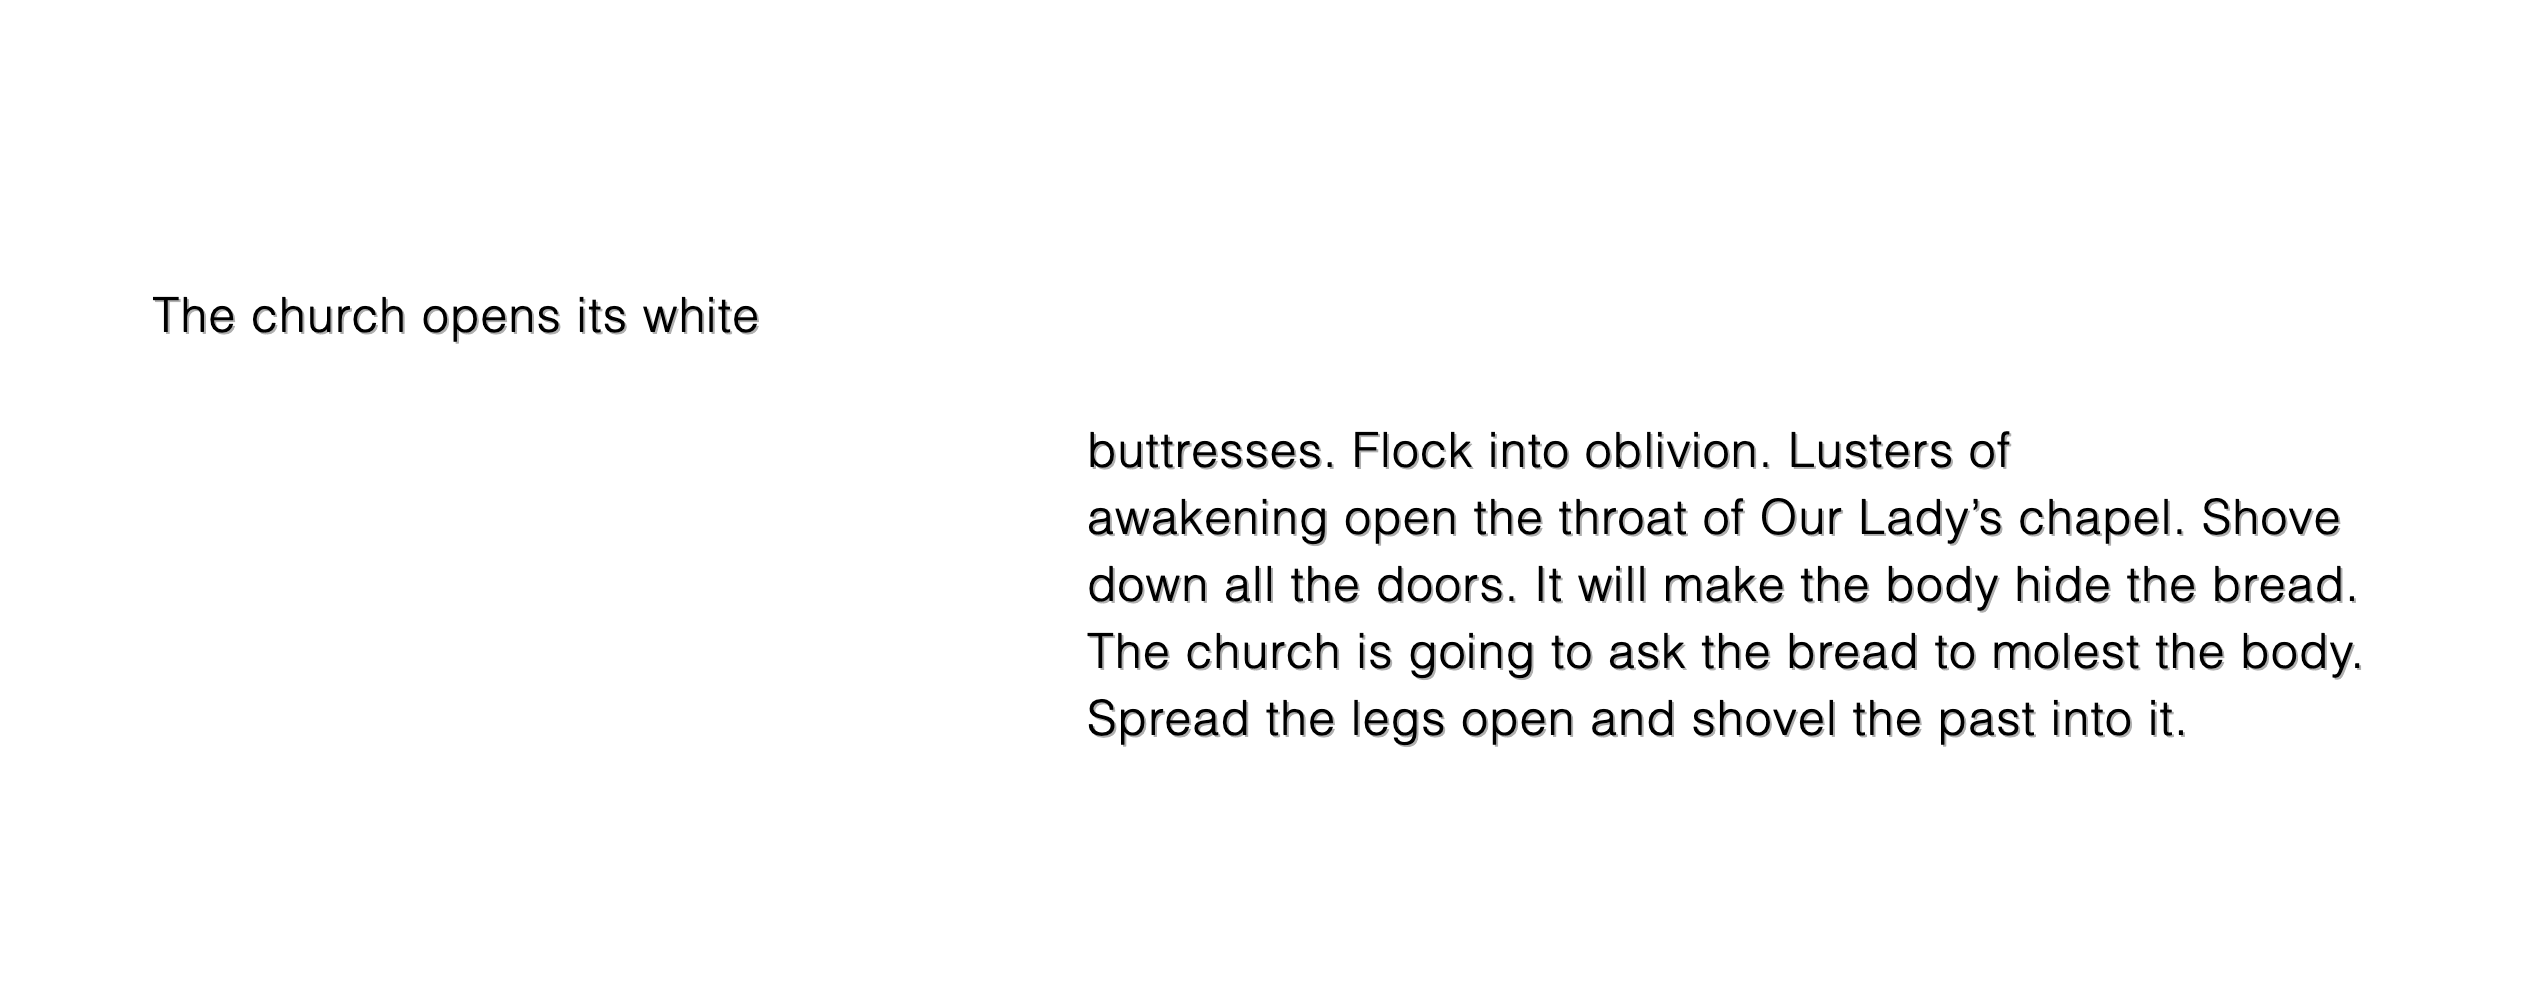
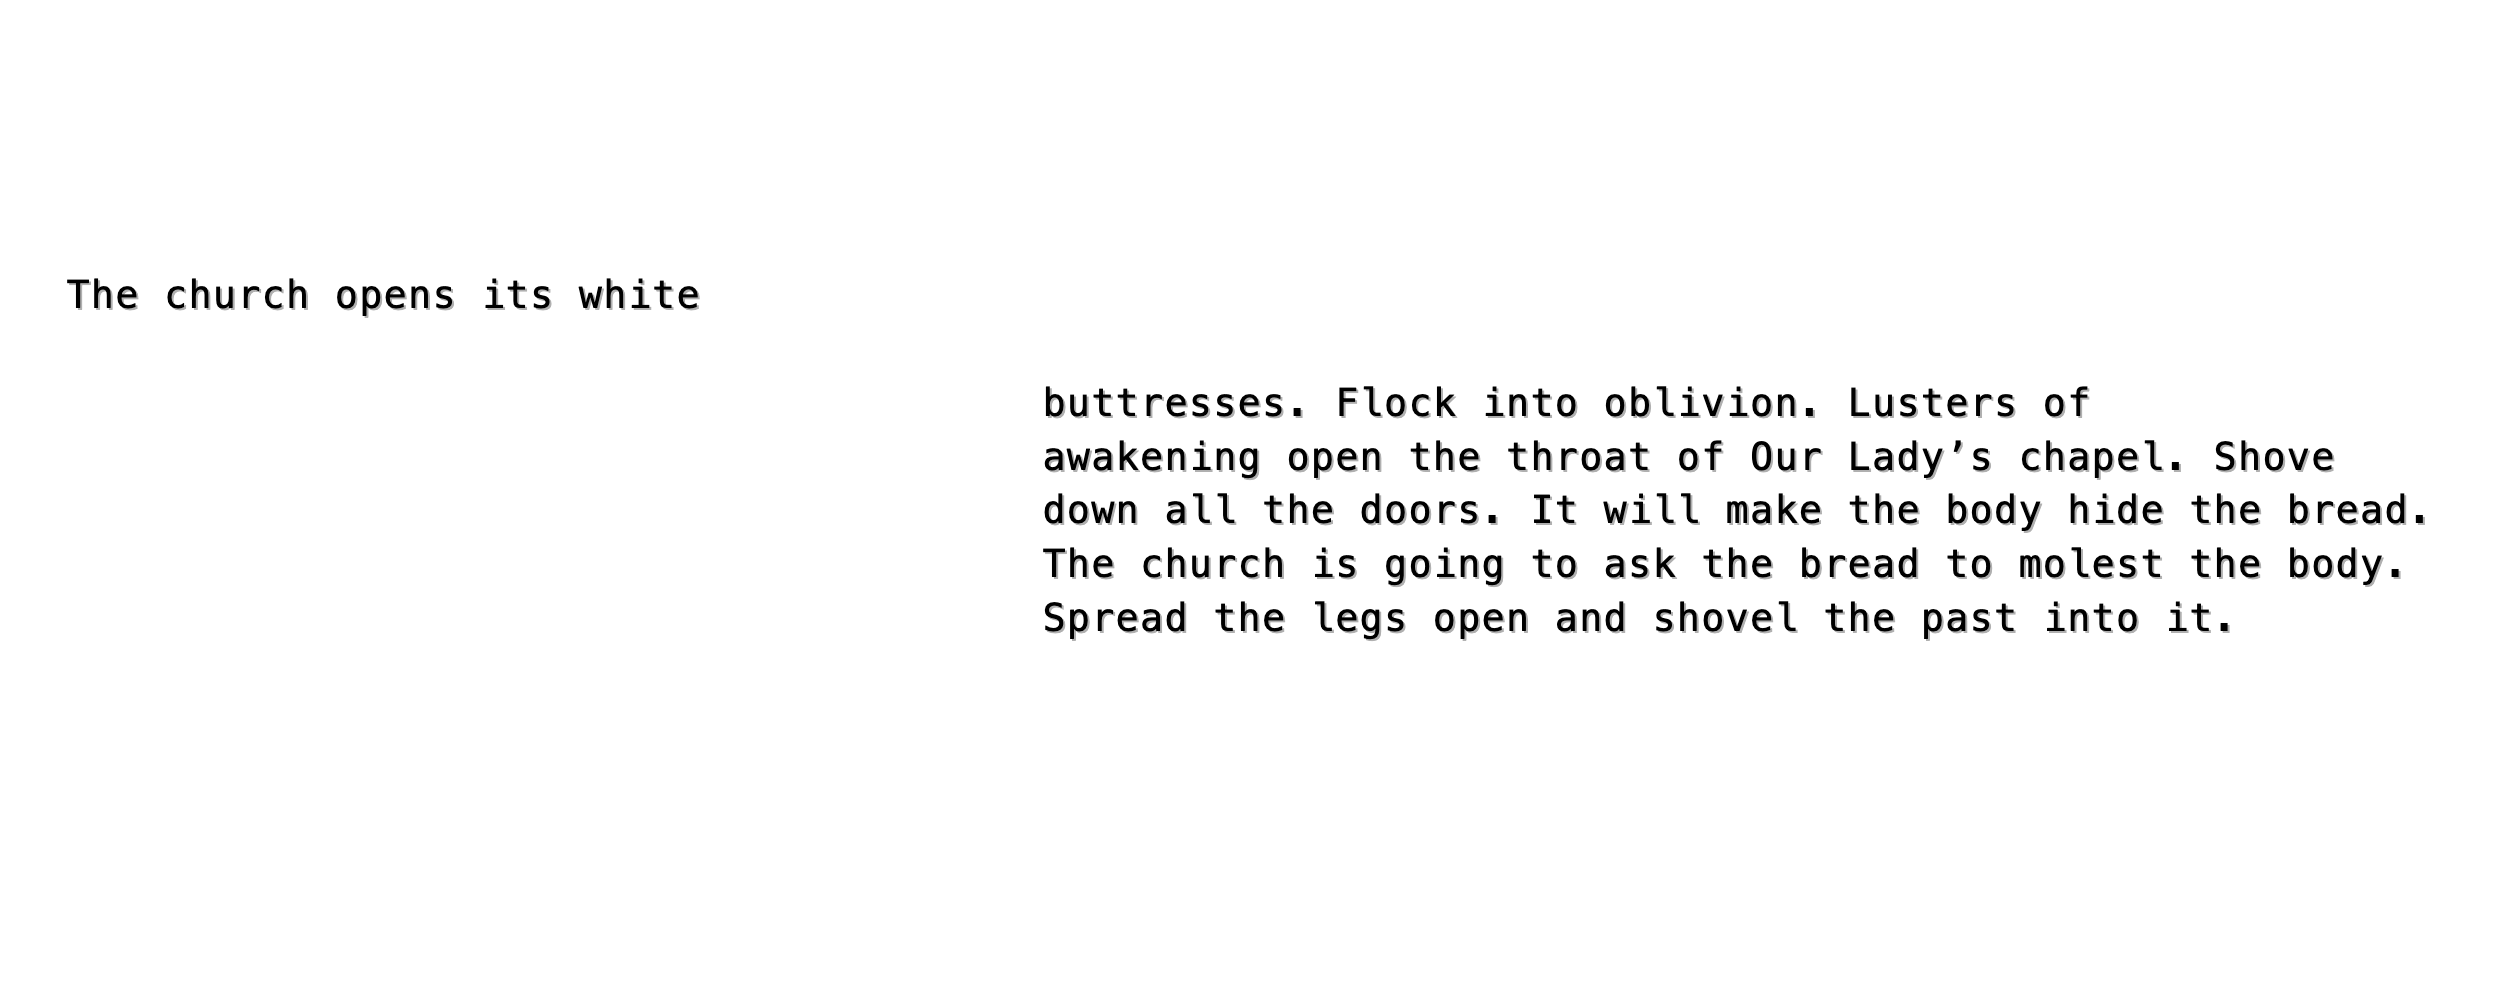
further refines issue1's two_eyes_in_one_eye gallery

Changed region(s): [[0.4056, 0.372, 0.9672, 0.744], [0.0312, 0.279, 0.312, 0.341]]

diff --git a/pages/GalleryTextStagingArea/twoEyesRawText.js b/pages/GalleryTextStagingArea/twoEyesRawText.js
@@ -7,6 +7,8 @@ import styles from '../../styles/TwoEyesInOne.module.css'
 
 
 export default function TwoEyesRawText() {
+  let ital = "I am the only one who moves the seasons around";
+  let ital1 = ital.italics();
   return (
       <div>
           <Head>
@@ -26,65 +28,227 @@ export default function TwoEyesRawText() {
         <br/><br/>
         <CenterGrayTitle><span className={styles.blackShadow}><h3>version<br/>one: two eyes in one<br/>eye</h3></span></CenterGrayTitle>
         <br/><br/><br/><br/><br/><br/>
-       <GalleryLineation content= {`
+       <GalleryLineation> <pre>{`
 The bird is walking around the courtyard      
 
-                                                                  looking for a religion with a pair of oculi.
-                                                                  Comparing itself to the cathedral. Landscape greets their
-                                                                  bodies. Bird and cathedral share contorted & arched
-                                                                  postures. The bird bent by fata morgana gazes at
-                                                                  the light /// the light is eating into one another. Eating
-                                                                  into each other’s time. The father of the moment eats
-                                                                  eats eats into [    ]. It blinks—in no [      ]—
-                                                                  metamorphoses into a cathedral. The bird opens wide its
-                                                                  buttresses, spreading its congregation of feathers. 
-        `}/>
+                                                      looking for a religion with a pair of oculi.
+                                        Comparing itself to the cathedral. Landscape greets their
+                                        bodies. Bird and cathedral share contorted & arched
+                                        postures. The bird bent by fata morgana gazes at
+                                        the light /// the light is eating into one another. Eating
+                                        into each other’s time. The father of the moment eats
+                                        eats eats into [    ]. It blinks—in no [      ]—
+                                        metamorphoses into a cathedral. The bird opens wide its
+                                        buttresses, spreading its congregation of feathers. 
+        `}</pre></GalleryLineation>
         <br/>
         <br/>
         <br/>
         <br/>
         <br/>
 
-        <GalleryLineation content= {`
-  The church opens its white      
+        <GalleryLineation> <pre>{`
+The church opens its white      
 
-                                                                  buttresses. Flock into oblivion. Lusters of
-                                                                  awakening open the throat of Our Lady’s chapel. Shove
-                                                                  down all the doors. It will make the body hide the bread.
-                                                                  The church is going to ask the bread to molest the body. 
-                                                                  Spread the legs open and shovel the past into it.
-         `}/>
+                                        buttresses. Flock into oblivion. Lusters of
+                                        awakening open the throat of Our Lady’s chapel. Shove
+                                        down all the doors. It will make the body hide the bread.
+                                        The church is going to ask the bread to molest the body. 
+                                        Spread the legs open and shovel the past into it.
+         `}</pre></GalleryLineation>
          <br/>
          <br/>
          <br/>
          <br/>
          <br/>
-         <GalleryLineation content= {`
-         The heart of the church is cold    
+         <GalleryLineation> <pre>{`
+The heart of the church is cold    
 
-                                                                               & blistery. Ready to be lightwood—splintered
-                                                                  by time /// Darkness is gentle and enhances the stomach
-                                                                  lining, the ambulatory nave, with wisdom and
-                                                                  confidence.
-          `}/>
+                                                  & blistery. Ready to be lightwood—splintered
+                                        by time /// Darkness is gentle and enhances the stomach
+                                        lining, the ambulatory nave, with wisdom and
+                                        confidence.
+          `}</pre></GalleryLineation>
           <br/>
           <br/>
           <br/>
           <br/>
           <br/>
-          <GalleryLineation content= {`
-          The congregation walks into the stomach    
+          <GalleryLineation> <pre>{`
+The congregation walks into the stomach    
 
-                                                                               lining of the bird. Sits down. The professor, a 
-                                                                  physicist, opens the bible made of birdseeds. Looks down
-                                                                  at her watch. The priest will cut the lives of others with
-                                                                  his cryptic voice.
-           `}/>
+                                                     lining of the bird. Sits down. The professor, a
+                                        physicist, opens the bible made of birdseeds. Looks down
+                                        at her watch. The priest will cut the lives of others with
+                                        his cryptic voice.
+           `}</pre></GalleryLineation>
            <br/>
            <br/>
            <br/>
            <br/>
            <br/>
+           <GalleryLineation> <pre>{`
+“The light does enjoy    
+
+                                                    a moment of breakfast, of eating a full meal of
+                                        siding and tree branches and roofs and cars and fighting
+                                        off the table before handing over the kitchen knife,”
+                                        begins the priest before the slanted heads of his
+                                        congregation. “Slants of light slaughter the throat of
+                                        trees. Trees fall and gaze down at the floor of the earth
+                                        and at their own shadow. Trees talk to their shadow. 
+                                        How long have I been here? Where is your shadow, 
+                                        shadow? Where is your breakfast? I could be down there
+                                        with you, floating on the earth’s surface like a buffalo
+                                        hide, dehydrated by the sun. But I’d rather not...”
+            `}</pre></GalleryLineation>
+            <br/>
+            <br/>
+            <br/>
+            <br/>
+            <br/>
+            <GalleryLineation> <pre>{`
+  "Landscape cannot take in all the bright  
+
+                                                    white bleeding. Beware of the light that dances
+                                        out of the mist, emitting radiation. Beware of human
+                                        beings with their bright ornamentations.” The hearts of
+                                        the congregation are lifted up higher and higher ///
+                                        brighter and brighter by the voice of the priest. Here
+                                        violence is only possible. The hearts sink back down to
+                                        the body and disperse in its field like snipers. Light that
+                                        violates becomes unequal to anything. Or anybody. And
+                                        rain:
+             `}</pre></GalleryLineation>
+             <br/>
+             <br/>
+             <br/>
+             <br/>
+             <br/>
+             <GalleryLineation> <pre>{`
+  The tears of the professor are falling
+
+                                                    apart as she raises her voice to the choir. There
+                                        is no way to return the tears to the proper owners before
+                                        they arrive to the professor. After the afternoon
+                                        shoulders the light, the lights move outside of each other, 
+                                        becoming less and less afraid of the bathroom and the
+                                        stained glass windows near the aisle. After the light locks
+                                        the earth in from its circular commotion, winter deceives
+                                  itself by thinking in sotto voce, ITAL~I am the only one who moves
+                                        the seasons around~ITAL, and says out loud, “You are eating my
+                                        heartbeat, you are eating, eating, eating me, Spring. Let
+                                        me move through the season like a barren queen.”
+              `}</pre></GalleryLineation>
+              <br/>
+              <br/>
+              <br/>
+              <br/>
+              <br/>
+              <GalleryLineation> <pre>{`
+After the winter gives the keys of daylight  
+
+                                        hours over to Spring, Spring opens the screen
+                                        door. Ziplocks winter away in cereal bowls. In the
+                                        afternoon, Spring and Winter remove each other’s 
+                            company: ~ital You and the trees. You will meet them again.~ital
+               `}</pre></GalleryLineation>
+               <br/>
+               <br/>
+               <br/>
+               <br/>
+               <br/>
+               <GalleryLineation> <pre>{`
+The priest is breathing finally and eating
+
+                                                time is never the place to do it. Not on the table.
+                                         Never on the table of God. Landscape knows that night
+                                         will murder the day each time.
+                `}</pre></GalleryLineation>
+                <br/>
+                <br/>
+                <br/>
+                <br/>
+                <br/>
+                <GalleryLineation> <pre>{`
+ The professor walks out of the church
+
+                                        tossing the bible to the bird. The professor
+                                        wears a long black skirt, ready to educate the young on
+                                        Newton’s third law. She ambles toward the flowerbeds
+                                        saturated with blue gems, bindweeds, scarlet pimpernels,
+                                        & Bermuda buttercups.  The flowers square their soft 
+                                        shoulder blades of affection, father their congregation of
+                                        avifaunal memory,  and bend their flowerheads in 
+                                        prayer.  The professor’s black skirt, its folded pleats
+                                        swaying back & forth back /// forth like lawnmower
+                                        blades. Preparing to inadvertently break the flowers’
+                                        backs. In preparation for the worst, the flowers begin to
+                                        empty their inflorescences into the shadow cast by the
+                                        sun.
+                 `}</pre></GalleryLineation>
+                 <br/>
+                 <br/>
+                 <br/>
+                 <br/>
+                 <br/>
+                 <GalleryLineation> <pre>{`
+United in prayer, they pray:
+
+                                        “Professor, do not swing our way.” The flowers
+                                        wish to stay on earth a little longer. A day in the life of  
+                                        a flower is one third of a life for many.  The Bermuda
+                                        buttercups hang on tightly to their open blouses, the
+                                        scarlet pimpernels pull down their floating hearts,
+                                        grappling for another portion of immortality. Fighting
+                                        for another layer of brevity & trying to expand the
+                                        biological contact with the world. It’s hard to keep
+                                        holding up the spine. To maintain the posture of tenacity
+                                        & fragility. 
+                  `}</pre></GalleryLineation>
+                  <br/>
+                  <br/>
+                  <br/>
+                  <br/>
+                  <br/>
+                  <GalleryLineation> <pre>{`
+The blades of the pleats
+
+                                                       swing. The flowers lose their spines.
+                  `}</pre></GalleryLineation>
+                   <br/>
+                   <br/>
+                   <br/>
+                   <br/>
+                   <br/>
+                   <GalleryLineation> <pre>{`
+The church does not
+
+                                        collapse when members of their congregation
+                                        fold their spines. The cathedral dilapidates on the
+                                        shadow created by the trees, lies still like a cathedral bird
+                                        until their bones are dispersed into dust & become light.
+                                        Dusty light crawls its illumination to the front doorstep of
+                                        the church /// As a deceased Lucifer, transported by the
+                                        stained glass windows, light sits by the transept, lifts its
+                                        translucent throat, and allows a flock of prayers to float
+                                        out of its mouth.
+                    `}</pre></GalleryLineation>
+                    <GalleryLineation> <pre>{`
+Two lovers sit in a Houston
+
+                                                Church in the middle of the afternoon. Their
+                                        orgasms sprawl out onto the nave.
+                    `}</pre></GalleryLineation>
+                    <GalleryLineation> <pre>{`
+    The bird has two eyes.                The Church has one.                Whoseesbetter?
+                    `}</pre></GalleryLineation>
+                    <br/>
+                    <br/>
+                    <br/>
+                    <br/>
+                    <br/>
+
           </body>
       </div>
   )

diff --git a/GalleryData/TwoEyesCarouselData.js b/GalleryData/TwoEyesCarouselData.js
@@ -4,6 +4,16 @@ import Nao2 from "../public/images/Nao2.png"
 import Nao3 from "../public/images/Nao3.png"
 import Nao4 from "../public/images/Nao4.png"
 import Nao5 from "../public/images/Nao5.png"
+import Nao6 from "../public/images/Nao6.png"
+import Nao7 from "../public/images/Nao7.png"
+import Nao8 from "../public/images/Nao8.png"
+import Nao9 from "../public/images/Nao9.png"
+import Nao10 from "../public/images/Nao10.png"
+import Nao11 from "../public/images/Nao11.png"
+import Nao12 from "../public/images/Nao12.png"
+import Nao13 from "../public/images/Nao13.png"
+import Nao14 from "../public/images/Nao14.png"
+import Nao15 from "../public/images/Nao15.png"
 
 
 export const images = [
@@ -13,4 +23,15 @@ export const images = [
   {title : "Two Eyes 4", img: Nao3},
   {title : "Two Eyes 5", img: Nao4},
   {title : "Two Eyes 6", img: Nao5},
+  {title : "Two Eyes 7", img: Nao6},
+  {title : "Two Eyes 8", img: Nao7},
+  {title : "Two Eyes 9", img: Nao8},
+  {title : "Two Eyes 10", img: Nao9},
+  {title : "Two Eyes 11", img: Nao10},
+  {title : "Two Eyes 12", img: Nao11},
+  {title : "Two Eyes 13", img: Nao12},
+  {title : "Two Eyes 14", img: Nao13},
+  {title : "Two Eyes 15", img: Nao14},
+  {title : "Two Eyes 16", img: Nao15}
+
 ]

diff --git a/components/galleryLineation.js b/components/galleryLineation.js
@@ -4,6 +4,6 @@ import styles from '../styles/GalleryLineation.module.css'
 
 export default function GalleryLineation(props) {
   return (
-    <pre className={styles.galleryLineation}>{props.content}</pre>
+    <pre className={styles.galleryLineation}>{props.children}</pre>
   );
 }

diff --git a/styles/TwoEyesInOne.module.css b/styles/TwoEyesInOne.module.css
@@ -30,6 +30,7 @@
   text-shadow: 2px 2px black;
   letter-spacing:0.2rem;
   cursor:pointer;
+  opacity:0.2;
 }
 
 .carousel > .next {
@@ -46,6 +47,7 @@
   text-shadow: 2px 2px #b0b0b0;
   letter-spacing:0.2rem;
   cursor:pointer;
+  opacity:0.5;
 }
 
 .prev:hover {

diff --git a/styles/GalleryLineation.module.css b/styles/GalleryLineation.module.css
@@ -2,7 +2,7 @@
   font-family: "astoria-sans-medium-condensed", sans-serif;
   font-weight: 300;
   font-style: normal;
-  font-size:1.5rem;
+  font-size:1.2rem;
   padding:10vw 10vh;
   margin:0 auto;
   text-shadow:1px 1px #b0b0b0;

diff --git a/pages/issue1/two-eyes-in-one.js b/pages/issue1/two-eyes-in-one.js
@@ -17,7 +17,7 @@ export default function TwoEyesInOneEye() {
     }
 
     function nextImage() {
-      if (currImg < 6) {
+      if (currImg < 16) {
       setCurrImg(currImg + 1);
      }
     }
